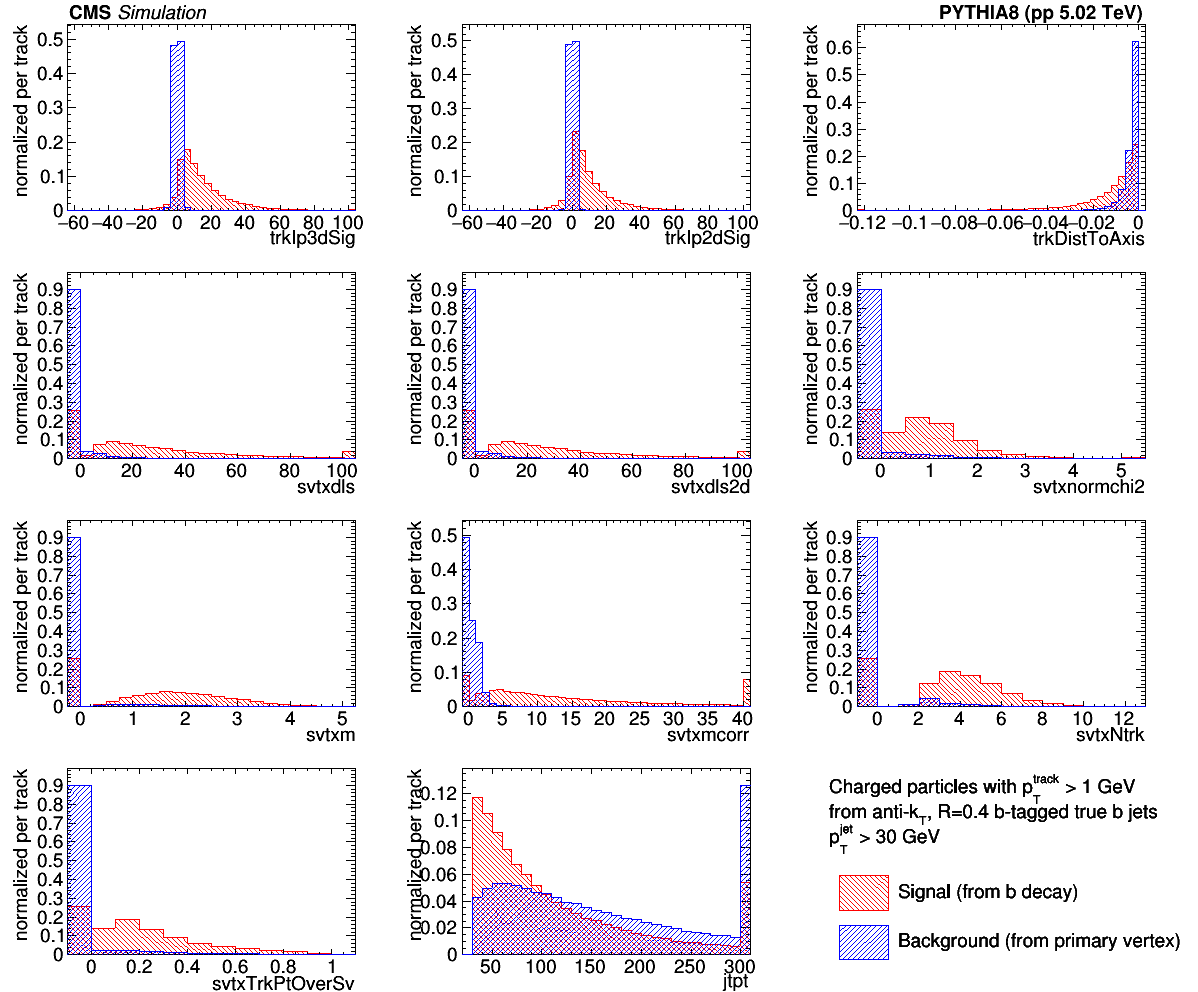
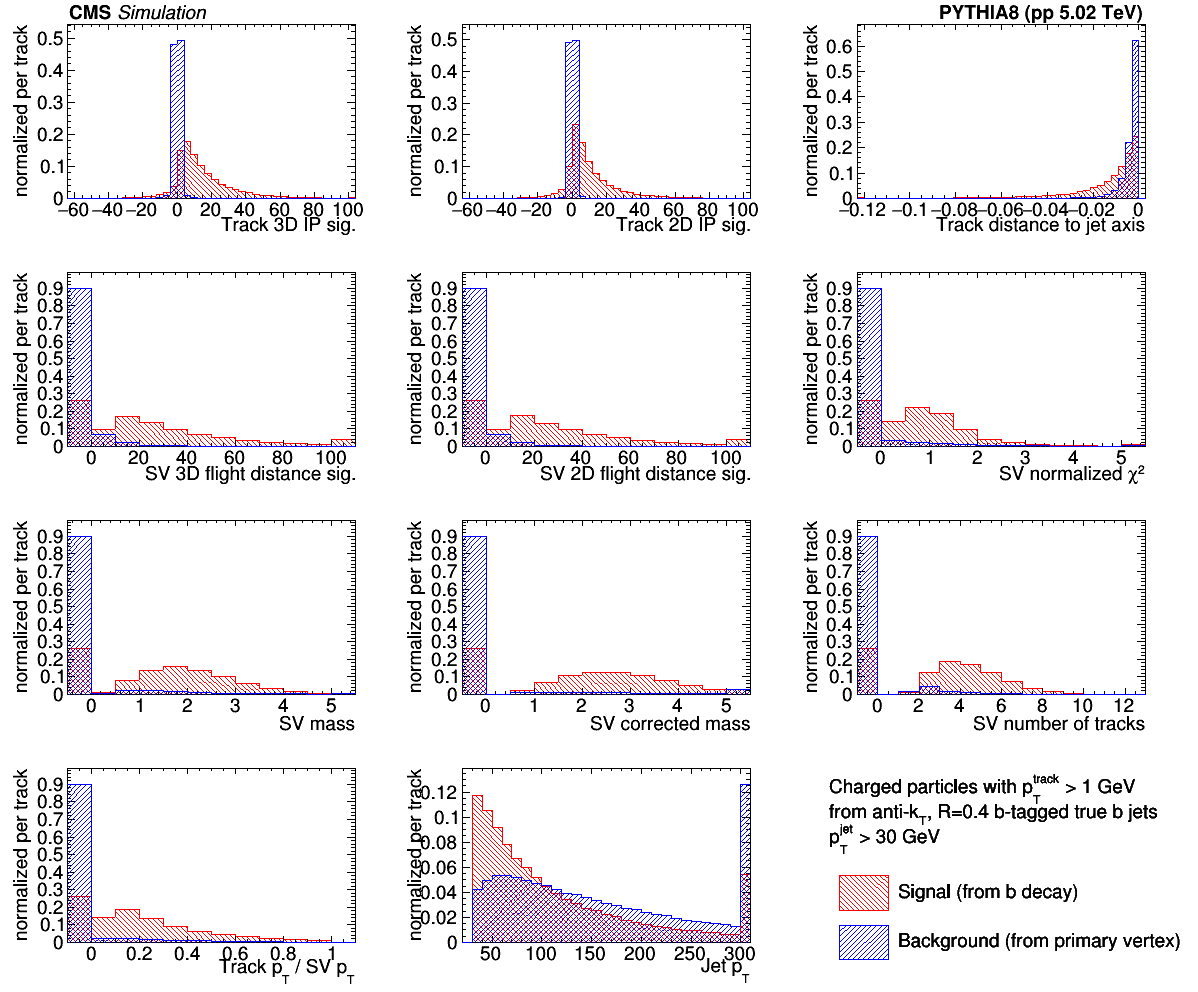
update plot

diff --git a/bdt_0_72_1/C106X/draw_inputs.C b/bdt_0_72_1/C106X/draw_inputs.C
@@ -1,56 +1,123 @@
-void draw_inputs(TString model="qcd_bjet_TMVA", TString var="trkIp3dSig")
+void draw_inputs(TString model="qcd_bjet_TMVA")
 {
+    std::vector<TString> vars = {
+        "trkIp3dSig", "trkIp2dSig", "trkDistToAxis",
+        "svtxdls", "svtxdls2d", "svtxnormchi2",
+        "svtxm", "svtxmcorr", "svtxNtrk",
+        "svtxTrkPtOverSv", "jtpt"
+    };
+
+    std::vector<TString> var_names = {
+        "Track 3D IP sig.",
+        "Track 2D IP sig.",
+        "Track distance to jet axis",
+        "SV 3D flight distance sig.",
+        "SV 2D flight distance sig.",
+        "SV normalized #chi^{2}",
+        "SV mass",
+        "SV corrected mass",
+        "SV number of tracks",
+        "Track p_{T} / SV p_{T}",
+        "Jet p_{T}",
+    };
+
     TString fin_name = "histos/"+model+"_inputs.root";
     std::cout << "fin: " << fin_name << std::endl;
     TFile *fin = new TFile(fin_name);
 
-    TH1F *h_sig = (TH1F *) fin->Get("h_"+var+"_sig");
-    h_sig->GetXaxis()->SetRange(0, h_sig->GetNbinsX()+1);
-    h_sig->Scale(1/h_sig->Integral());
-    h_sig->SetFillStyle(3345);
-    h_sig->SetFillColor(kRed);
-    h_sig->SetLineColor(kRed);
-    h_sig->SetTitle("Signal");
-    h_sig->GetXaxis()->SetTitle(var);
-    h_sig->GetYaxis()->SetTitle("normalized per track");
+    TCanvas *c = new TCanvas("c", "", 1200, 2000);
+    TPad *pad11 = new TPad(Form("pad11"),"",0.,0.,0.33,0.25);
+    TPad *pad12 = new TPad(Form("pad12"),"",0.33,0.,0.66,0.25);
+    TPad *pad13 = new TPad(Form("pad13"),"",0.66,0.,0.99,0.25);
+    TPad *pad21 = new TPad(Form("pad21"),"",0.,0.25,0.33,0.5);
+    TPad *pad22 = new TPad(Form("pad22"),"",0.33,0.25,0.66,0.5);
+    TPad *pad23 = new TPad(Form("pad23"),"",0.66,0.25,0.99,0.5);
+    TPad *pad31 = new TPad(Form("pad31"),"",0.,0.5,0.33,0.75);
+    TPad *pad32 = new TPad(Form("pad32"),"",0.33,0.5,0.66,0.75);
+    TPad *pad33 = new TPad(Form("pad33"),"",0.66,0.5,0.99,0.75);
+    TPad *pad41 = new TPad(Form("pad41"),"",0.,0.75,0.33,1.);
+    TPad *pad42 = new TPad(Form("pad42"),"",0.33,0.75,0.66,1.);
+    TPad *pad43 = new TPad(Form("pad43"),"",0.66,0.75,0.99,1.);
 
-    TH1F *h_bkg = (TH1F *) fin->Get("h_"+var+"_bkg");
-    h_bkg->GetXaxis()->SetRange(0, h_bkg->GetNbinsX()+1);
-    h_bkg->Scale(1/h_bkg->Integral());
-    h_bkg->SetFillStyle(3354);
-    h_bkg->SetFillColor(kBlue);
-    h_bkg->SetLineColor(kBlue);
-    h_bkg->SetTitle("Background");
-    h_bkg->GetXaxis()->SetTitle(var);
-    h_bkg->GetYaxis()->SetTitle("normalized per track");
+    std::vector<TPad *> pads = {
+        pad41, pad42, pad43,
+        pad31, pad32, pad33,
+        pad21, pad22, pad23,
+        pad11, pad12, pad13,
+    };
 
-    double ymax = std::max({h_bkg->GetMaximum(), h_sig->GetMaximum()});
-    h_sig->GetYaxis()->SetRangeUser(0, ymax*1.1);
-    h_bkg->GetYaxis()->SetRangeUser(0, ymax*1.1);
+    for (int i=0; i<vars.size(); i++) {
+        TString var = vars[i];
 
-    TLegend *leg = new TLegend(0.6, 0.7, 0.85, 0.85);
-    leg->SetFillStyle(0);
-    leg->AddEntry(h_sig, "Signal", "f");
-    leg->AddEntry(h_bkg, "Background", "f");
+        TH1F *h_sig = (TH1F *) fin->Get("h_"+var+"_sig");
+        h_sig->GetXaxis()->SetRange(0, h_sig->GetNbinsX()+1);
+        h_sig->Scale(1/h_sig->Integral());
+        h_sig->SetFillStyle(3345);
+        h_sig->SetFillColor(kRed);
+        h_sig->SetLineColor(kRed);
+        h_sig->SetTitle("Signal");
+        h_sig->GetXaxis()->SetTitle(var_names[i]);
+        h_sig->GetXaxis()->SetTitleOffset(3.5);
+        h_sig->GetYaxis()->SetTitle("normalized per track");
+        h_sig->GetYaxis()->SetTitleOffset(3.5);
 
-    TCanvas *c = new TCanvas("c", "", 600, 600);
-    h_sig->Draw("hist");
-    h_bkg->Draw("hist same");
-    leg->Draw();
+        TH1F *h_bkg = (TH1F *) fin->Get("h_"+var+"_bkg");
+        h_bkg->GetXaxis()->SetRange(0, h_bkg->GetNbinsX()+1);
+        h_bkg->Scale(1/h_bkg->Integral());
+        h_bkg->SetFillStyle(3354);
+        h_bkg->SetFillColor(kBlue);
+        h_bkg->SetLineColor(kBlue);
+        h_bkg->SetTitle("Background");
+        h_bkg->GetXaxis()->SetTitle(var);
+        h_bkg->GetYaxis()->SetTitle("normalized per track");
 
-    // TLatex *prelim = new TLatex;
-    // prelim->SetNDC();
-    // prelim->SetTextSize(20);
-    // prelim->DrawLatex(0.175, 0.92, "#bf{CMS} #it{Simulation}");
-    // prelim->Draw();
+        double ymax = std::max({h_bkg->GetMaximum(), h_sig->GetMaximum()});
+        h_sig->GetYaxis()->SetRangeUser(0, ymax*1.1);
+        h_bkg->GetYaxis()->SetRangeUser(0, ymax*1.1);
 
-    // TLatex *lumi = new TLatex;
-    // lumi->SetNDC();
-    // lumi->SetTextSize(20);
-    // lumi->DrawLatex(0.58, 0.92, "#bf{PYTHIA8 (pp 5.02 TeV)}");
-    // lumi->Draw();
+        pads[i]->SetRightMargin(0.1);
+        pads[i]->SetBottomMargin(0.2);
+        pads[i]->cd();
 
+        h_sig->Draw("hist");
+        h_bkg->Draw("hist same");
+
+        if (i==0) {
+            TLatex *prelim = new TLatex;
+            prelim->SetNDC();
+            prelim->SetTextSize(20);
+            prelim->DrawLatex(0.175, 0.92, "#bf{CMS} #it{Simulation}");
+            prelim->Draw();
+        }
+
+        if (i==2) {
+            TLatex *lumi = new TLatex;
+            lumi->SetNDC();
+            lumi->SetTextSize(20);
+            lumi->DrawLatex(0.38, 0.92, "#bf{PYTHIA8 (pp 5.02 TeV)}");
+            lumi->Draw();
+        }
+
+        pads[11]->cd();
+        TLatex *info = new TLatex;
+        info->SetNDC();
+        info->SetTextSize(20);
+        info->DrawLatex(0.1, 0.8, "Charged particles with p_{T}^{track} > 1 GeV");
+        info->DrawLatex(0.1, 0.7, "from anti-k_{T}, R=0.4 b-tagged true b jets");
+        info->DrawLatex(0.1, 0.6, "p_{T}^{jet} > 30 GeV");
+        info->Draw();
+        
+        TLegend *leg = new TLegend(0.1, 0.1, 0.8, 0.5);
+        leg->SetFillStyle(0);
+        leg->AddEntry(h_sig, "Signal (from b decay)", "f");
+        leg->AddEntry(h_bkg, "Background (from primary vertex)", "f");
+        leg->Draw();
+
+        c->cd();
+        pads[i]->Draw();
+        pads[11]->Draw();
+
+    }
     c->Draw();
-    // c->Print("plots_an/"+model+"_"+var+".png");
-
+    c->Print("plots_an/"+model+"_inputs.png");
 }

diff --git a/bdt_0_72_1/C106X/plot_inputs.C b/bdt_0_72_1/C106X/plot_inputs.C
@@ -37,10 +37,10 @@ void plot_inputs(TString model="qcd_bjet_TMVA")
     TH1F *h_trkIp3dSig_sig = new TH1F("h_trkIp3dSig_sig", "", 40, -60., 100.);
     TH1F *h_trkIp2dSig_sig = new TH1F("h_trkIp2dSig_sig", "", 40, -60., 100.);
     TH1F *h_trkDistToAxis_sig = new TH1F("h_trkDistToAxis_sig", "", 40, -0.12, 0.);
-    TH1F *h_svtxdls_sig = new TH1F("h_svtxdls_sig", "", 20, 0., 100.);
-    TH1F *h_svtxdls2d_sig = new TH1F("h_svtxdls2d_sig", "", 20, 0., 100.);
-    TH1F *h_svtxm_sig = new TH1F("h_svtxm_sig", "", 20, 0., 5.);
-    TH1F *h_svtxmcorr_sig = new TH1F("h_svtxmcorr_sig", "", 40, 0., 40.);
+    TH1F *h_svtxdls_sig = new TH1F("h_svtxdls_sig", "", 10, 0., 100.);
+    TH1F *h_svtxdls2d_sig = new TH1F("h_svtxdls2d_sig", "", 10, 0., 100.);
+    TH1F *h_svtxm_sig = new TH1F("h_svtxm_sig", "", 10, 0., 5.);
+    TH1F *h_svtxmcorr_sig = new TH1F("h_svtxmcorr_sig", "", 10, 0., 5.);
     TH1F *h_svtxnormchi2_sig = new TH1F("h_svtxnormchi2_sig", "", 10, 0., 5.);
     TH1F *h_svtxNtrk_sig = new TH1F("h_svtxNtrk_sig", "", 12, 0., 12.);
     TH1F *h_svtxTrkPtOverSv_sig = new TH1F("h_svtxTrkPtOverSv_sig", "", 10, 0., 1.);
@@ -49,10 +49,10 @@ void plot_inputs(TString model="qcd_bjet_TMVA")
     TH1F *h_trkIp3dSig_bkg = new TH1F("h_trkIp3dSig_bkg", "", 40, -60., 100.);
     TH1F *h_trkIp2dSig_bkg = new TH1F("h_trkIp2dSig_bkg", "", 40, -60., 100.);
     TH1F *h_trkDistToAxis_bkg = new TH1F("h_trkDistToAxis_bkg", "", 40, -0.12, 0.);
-    TH1F *h_svtxdls_bkg = new TH1F("h_svtxdls_bkg", "", 20, 0., 100.);
-    TH1F *h_svtxdls2d_bkg = new TH1F("h_svtxdls2d_bkg", "", 20, 0., 100.);
-    TH1F *h_svtxm_bkg = new TH1F("h_svtxm_bkg", "", 20, 0., 5.);
-    TH1F *h_svtxmcorr_bkg = new TH1F("h_svtxmcorr_bkg", "", 40, 0., 40.);
+    TH1F *h_svtxdls_bkg = new TH1F("h_svtxdls_bkg", "", 10, 0., 100.);
+    TH1F *h_svtxdls2d_bkg = new TH1F("h_svtxdls2d_bkg", "", 10, 0., 100.);
+    TH1F *h_svtxm_bkg = new TH1F("h_svtxm_bkg", "", 10, 0., 5.);
+    TH1F *h_svtxmcorr_bkg = new TH1F("h_svtxmcorr_bkg", "", 10, 0., 5.);
     TH1F *h_svtxnormchi2_bkg = new TH1F("h_svtxnormchi2_bkg", "", 10, 0., 5.);
     TH1F *h_svtxNtrk_bkg = new TH1F("h_svtxNtrk_bkg", "", 12, 0., 12.);
     TH1F *h_svtxTrkPtOverSv_bkg = new TH1F("h_svtxTrkPtOverSv_bkg", "", 10, 0., 1.);
@@ -70,7 +70,7 @@ void plot_inputs(TString model="qcd_bjet_TMVA")
             h_svtxdls_bkg->Fill(svtxdls);
             h_svtxdls2d_bkg->Fill(svtxdls2d);
             h_svtxm_bkg->Fill(svtxm);
-            h_svtxmcorr_bkg->Fill(trkIp3dSig);
+            h_svtxmcorr_bkg->Fill(svtxmcorr);
             h_svtxnormchi2_bkg->Fill(svtxnormchi2);
             h_svtxNtrk_bkg->Fill(svtxNtrk);
             h_svtxTrkPtOverSv_bkg->Fill(svtxTrkPtOverSv);
@@ -82,7 +82,7 @@ void plot_inputs(TString model="qcd_bjet_TMVA")
             h_svtxdls_sig->Fill(svtxdls);
             h_svtxdls2d_sig->Fill(svtxdls2d);
             h_svtxm_sig->Fill(svtxm);
-            h_svtxmcorr_sig->Fill(trkIp3dSig);
+            h_svtxmcorr_sig->Fill(svtxmcorr);
             h_svtxnormchi2_sig->Fill(svtxnormchi2);
             h_svtxNtrk_sig->Fill(svtxNtrk);
             h_svtxTrkPtOverSv_sig->Fill(svtxTrkPtOverSv);
